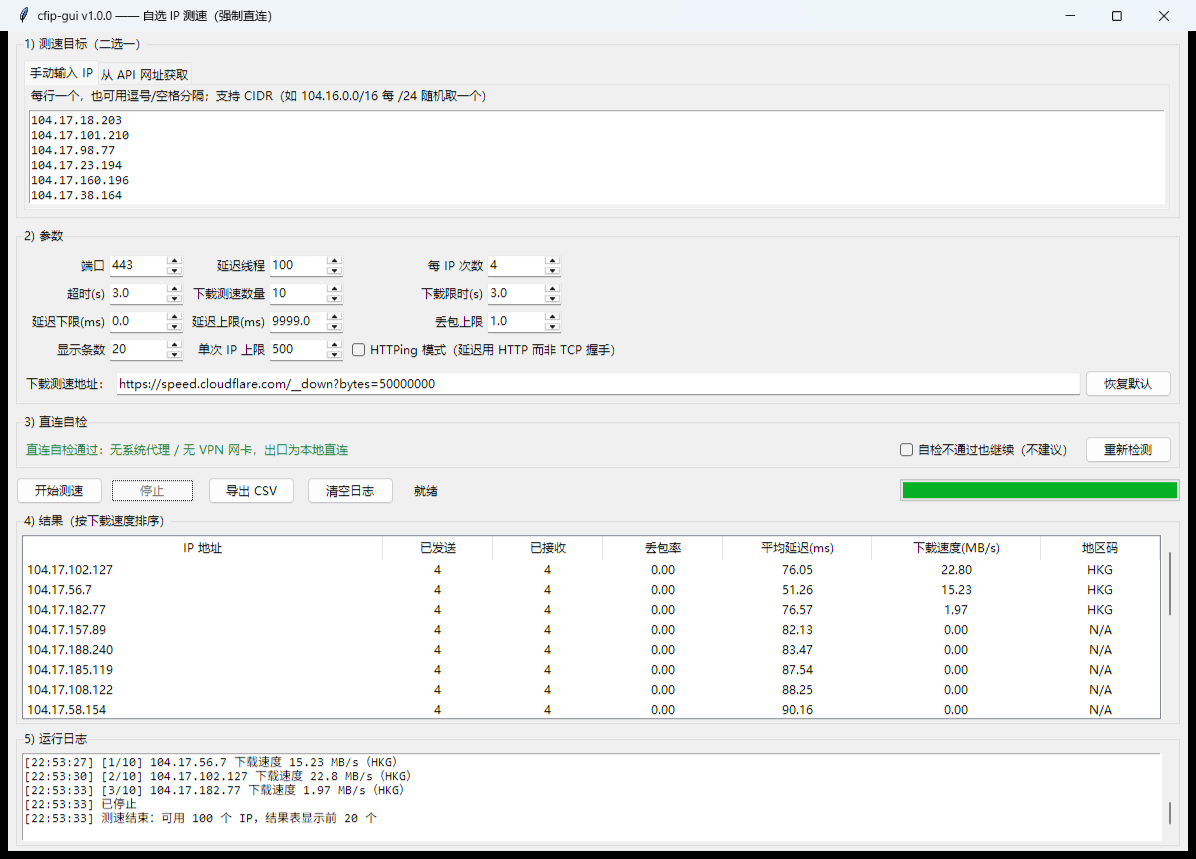
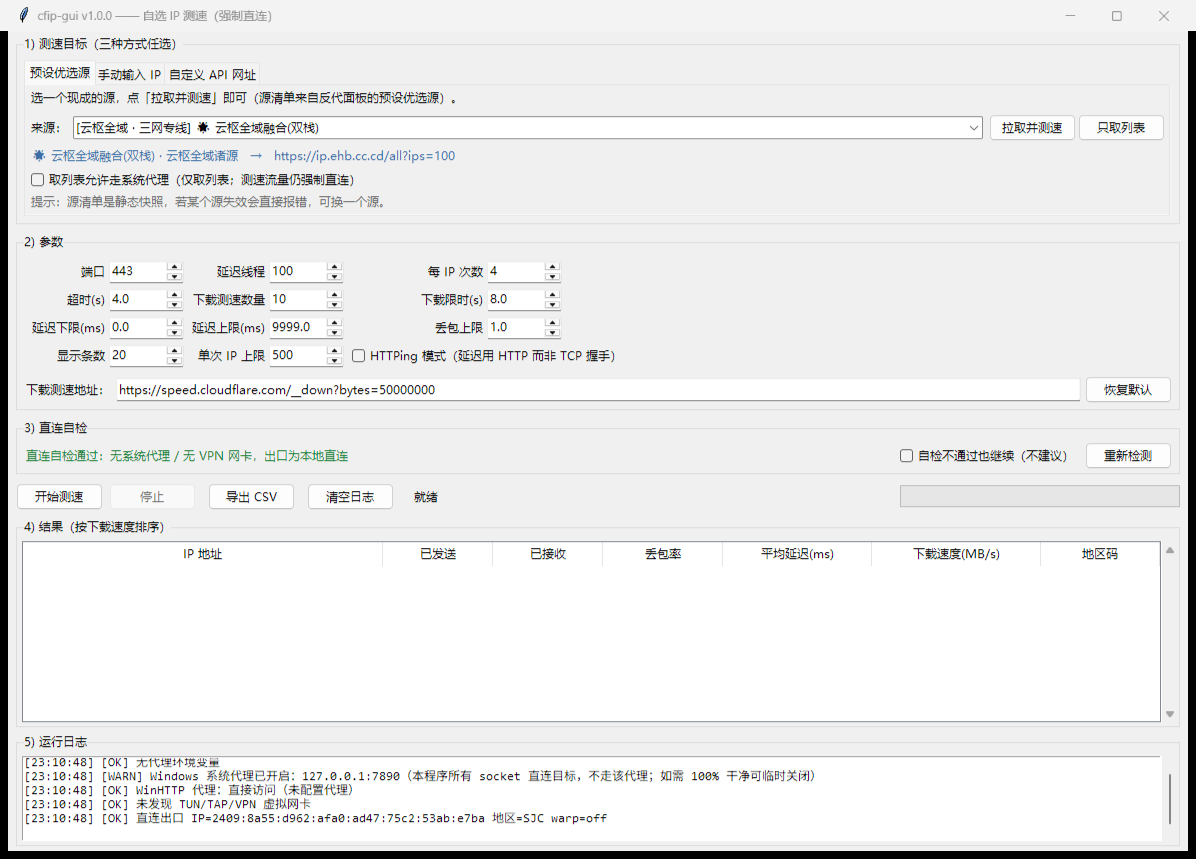
feat: 新增预设优选源下拉，一键拉取并测速
- 新增 presets.py：33 个预设优选源，分 7 组（云枢全域/104/162/172/198&108/
  IPv6 星轨/第三方备用），整理自 EmbyProxyCF-Lite 面板的预设优选源列表
- 「测速目标」改为三页签：预设优选源 / 手动输入 IP / 自定义 API 网址
- 预设源页提供「拉取并测速」「只取列表」两个入口，并显示当前源的完整 URL
- 「取列表允许走系统代理」勾选移到预设源页，两个页签共享同一开关
- README 增加预设优选源章节与致谢，注明 API 来源

diff --git a/cfip_gui.py b/cfip_gui.py
@@ -34,6 +34,15 @@ import urllib.request
 from concurrent.futures import ThreadPoolExecutor
 from dataclasses import dataclass, field
 
+try:
+    from presets import flat_sources, short_name
+except ImportError:  # 打包成单文件或模块缺失时降级为空清单
+    def flat_sources():
+        return []
+
+    def short_name(label):
+        return label
+
 APP_NAME = "cfip-gui"
 APP_VER = "1.0.0"
 
@@ -773,27 +782,52 @@ def run_gui():
             root.pack(fill="both", expand=True)
 
             # 输入区
-            box = ttk.LabelFrame(root, text="1) 测速目标（二选一）")
+            box = ttk.LabelFrame(root, text="1) 测速目标（三种方式任选）")
             box.pack(fill="x", **pad)
             nb = ttk.Notebook(box)
             nb.pack(fill="both", expand=True, padx=6, pady=6)
             self.nb = nb
 
+            # --- 页签 0：预设优选源
+            f0 = ttk.Frame(nb)
+            nb.add(f0, text="预设优选源")
+            ttk.Label(f0, text="选一个现成的源，点「拉取并测速」即可（源清单来自反代面板的预设优选源）。").pack(
+                anchor="w", padx=4, pady=(2, 4))
+            prow = ttk.Frame(f0)
+            prow.pack(fill="x", padx=4, pady=2)
+            ttk.Label(prow, text="来源：").pack(side="left")
+            self.var_preset = tk.StringVar()
+            self.cmb_preset = ttk.Combobox(prow, textvariable=self.var_preset, state="readonly", width=52)
+            self.cmb_preset.pack(side="left", fill="x", expand=True, padx=4)
+            ttk.Button(prow, text="拉取并测速", command=self.preset_fetch_test).pack(side="left", padx=2)
+            ttk.Button(prow, text="只取列表", command=self.preset_fetch_only).pack(side="left")
+            self.lbl_preset_url = ttk.Label(f0, text="", foreground="#3a6ea5", wraplength=1000, justify="left")
+            self.lbl_preset_url.pack(anchor="w", padx=4, pady=2)
+            self.var_api_proxy = tk.BooleanVar(value=False)
+            ttk.Checkbutton(
+                f0, text="取列表允许走系统代理（仅取列表；测速流量仍强制直连）",
+                variable=self.var_api_proxy,
+            ).pack(anchor="w", padx=4)
+            ttk.Label(f0, text="提示：源清单是静态快照，若某个源失效会直接报错，可换一个源。",
+                      foreground="#666").pack(anchor="w", padx=4, pady=(0, 2))
+            self._init_presets()
+
+            # --- 页签 1：手动输入 IP
             f1 = ttk.Frame(nb)
             nb.add(f1, text="手动输入 IP")
             ttk.Label(f1, text="每行一个，也可用逗号/空格分隔；支持 CIDR（如 104.16.0.0/16 每 /24 随机取一个）").pack(anchor="w", padx=4)
             self.txt_ips = tk.Text(f1, height=6, wrap="none", font=("Consolas", 10))
             self.txt_ips.pack(fill="both", expand=True, padx=4, pady=4)
 
+            # --- 页签 2：自定义 API
             f2 = ttk.Frame(nb)
-            nb.add(f2, text="从 API 网址获取")
+            nb.add(f2, text="自定义 API 网址")
             row = ttk.Frame(f2)
             row.pack(fill="x", padx=4, pady=6)
             ttk.Label(row, text="网址：").pack(side="left")
-            self.var_api = tk.StringVar(value="https://ip.ehb.cc.cd/v6-cm?ips=100")
+            self.var_api = tk.StringVar(value="https://ip.v2too.top/api/nodes")
             ttk.Entry(row, textvariable=self.var_api).pack(side="left", fill="x", expand=True, padx=4)
             ttk.Button(row, text="只取列表（不测速）", command=self.fetch_only).pack(side="left")
-            self.var_api_proxy = tk.BooleanVar(value=False)
             ttk.Checkbutton(
                 f2, text="API 取列表允许走系统代理（仅取列表；测速流量仍强制直连）",
                 variable=self.var_api_proxy,
@@ -963,6 +997,71 @@ def run_gui():
             else:
                 self.lbl_direct.config(text="直连自检未通过：存在代理或 VPN，测速结果不可信（详见日志）", foreground="#c62828")
 
+        # ---- 预设优选源
+        def _init_presets(self):
+            self._preset_items = flat_sources()
+            values = [f"[{g}] {short_name(lbl)}" for g, lbl, _ in self._preset_items]
+            self.cmb_preset["values"] = values
+            if values:
+                self.cmb_preset.current(0)
+                self._on_preset_change()
+            self.cmb_preset.bind("<<ComboboxSelected>>", lambda e: self._on_preset_change())
+
+        def _on_preset_change(self):
+            idx = self.cmb_preset.current()
+            if idx < 0 or idx >= len(self._preset_items):
+                return
+            group, label, url = self._preset_items[idx]
+            self.lbl_preset_url.config(text=f"{label}　→　{url}")
+
+        def _selected_preset_url(self):
+            idx = self.cmb_preset.current()
+            if idx < 0 or idx >= len(self._preset_items):
+                return ""
+            return self._preset_items[idx][2]
+
+        def preset_fetch_only(self):
+            url = self._selected_preset_url()
+            if not url:
+                messagebox.showwarning("未选择来源", "请先在下拉框里选一个预设源。")
+                return
+            self.var_api.set(url)  # 同步到自定义 API 框，方便二次修改
+            self.log(f"从预设源取 IP 列表：{url}")
+            self.var_status.set("正在获取 IP 列表…")
+
+            def work():
+                ips, err = fetch_ip_list(url, allow_proxy=self.var_api_proxy.get(),
+                                         log=lambda m: self.q.put(("log", m)))
+                self.q.put(("apiresult", (ips, err)))
+
+            threading.Thread(target=work, daemon=True).start()
+
+        def preset_fetch_test(self):
+            url = self._selected_preset_url()
+            if not url:
+                messagebox.showwarning("未选择来源", "请先在下拉框里选一个预设源。")
+                return
+            if self.worker and self.worker.is_alive():
+                return
+            if self.self_test_ok is False and not self.var_force.get():
+                messagebox.showerror(
+                    "直连自检未通过",
+                    "检测到系统代理或 VPN/TUN 网卡，测速流量可能被中转，结果不可信。\n\n"
+                    "请先关闭代理软件与 VPN 后点「重新检测」。",
+                )
+                return
+            self.var_api.set(url)
+            self.btn_start["state"] = "disabled"
+            self.var_status.set("正在获取 IP 列表…")
+            self.log(f"从预设源取 IP 并测速：{url}")
+
+            def work():
+                ips, err = fetch_ip_list(url, allow_proxy=self.var_api_proxy.get(),
+                                         log=lambda m: self.q.put(("log", m)))
+                self.q.put(("startwith", (ips, err)))
+
+            threading.Thread(target=work, daemon=True).start()
+
         # ---- 取列表
         def fetch_only(self):
             url = self.var_api.get().strip()
@@ -995,7 +1094,7 @@ def run_gui():
             shown = ips[:limit]
             self.txt_ips.delete("1.0", "end")
             self.txt_ips.insert("1.0", "\n".join(shown))
-            self.nb.select(0)  # 自动切到「手动输入 IP」页
+            self.nb.select(1)  # 自动切到「手动输入 IP」页
             self.var_status.set(f"已取到 {len(shown)} 个 IP")
             msg = f"已取到 {len(ips)} 个 IP，已填入「手动输入 IP」页"
             if len(ips) > limit:
@@ -1044,11 +1143,11 @@ def run_gui():
                 )
                 return
 
-            # 停在「API 网址」页时，先后台取列表，取到再开始测速
-            if self.nb.index(self.nb.select()) == 1:
+            # 停在「自定义 API 网址」页时，先后台取列表，取到再开始测速
+            if self.nb.index(self.nb.select()) == 2:
                 url = self.var_api.get().strip()
                 if not url:
-                    messagebox.showwarning("缺少网址", "请在「从 API 网址获取」页填写 API 网址，或切到「手动输入 IP」页。")
+                    messagebox.showwarning("缺少网址", "请在「自定义 API 网址」页填写网址，或改用「预设优选源」/「手动输入 IP」。")
                     return
                 self.btn_start["state"] = "disabled"
                 self.var_status.set("正在获取 IP 列表…")
@@ -1068,7 +1167,7 @@ def run_gui():
             if trunc:
                 self.log(f"IP 数量超过上限，已截断为 {self.var_max.get()} 个")
             if not ips:
-                messagebox.showwarning("没有可测的 IP", "请输入至少一个合法 IP，或切到「从 API 网址获取」页填写网址。")
+                messagebox.showwarning("没有可测的 IP", "请输入至少一个合法 IP，或改用「预设优选源」/「自定义 API 网址」。")
                 return
             self._begin_run(ips)
 

diff --git a/presets.py b/presets.py
@@ -1,0 +1,76 @@
+# -*- coding: utf-8 -*-
+"""预设优选源清单。
+
+来源：https://github.com/MakkaPakka518/EmbyProxyCF-Lite
+（该面板「预设优选源」下拉列表的静态快照，2026-10-20 整理）
+
+面板把每个源以 <optgroup> + <option title="URL"> 的形式写死在页面里，
+所以这里做的是静态快照，不依赖对方接口，也不会因为面板改版而突然失效。
+
+格式：(分组名, [(显示名, 取 IP 的网址), ...])
+"""
+
+PRESET_SOURCES = [
+    ('云枢全域 · 三网专线', [
+        ('🌟 云枢全域融合(双栈) · 云枢全域诸源', 'https://ip.ehb.cc.cd/all?ips=100'),
+        ('🚄 云枢移动起飞 · 云枢移动起飞', 'https://ip.ehb.cc.cd/cm?ips=100'),
+        ('⚡ 云枢电信美西 · 云枢电信美西', 'https://ip.ehb.cc.cd/ct?ips=100'),
+        ('🚀 云枢联通极速 · 云枢联通极速', 'https://ip.ehb.cc.cd/cu?ips=100'),
+    ]),
+    ('104.16.0.0/13 大段家族', [
+        ('🏯 104 大段全域池 · 104大分类全域', 'https://ip.ehb.cc.cd/104?ips=100'),
+        ('🚄 104.17 移动起飞段 · 104.17移动起飞', 'https://ip.ehb.cc.cd/104.17?ips=100'),
+        ('🛡 104.19 移动抗QoS段 · 104.19防QoS', 'https://ip.ehb.cc.cd/104.19?ips=100'),
+        ('📻 104.16 经典老牌段 · 104.16老牌广播', 'https://ip.ehb.cc.cd/104.16?ips=100'),
+    ]),
+    ('162.158.0.0/15 大段家族', [
+        ('🏯 162 大段全域池 · 162大分类全域', 'https://ip.ehb.cc.cd/162?ips=100'),
+        ('💎 162.159 SaaS/DoH段 · 162.159-saas高优', 'https://ip.ehb.cc.cd/162.159-saas?ips=100'),
+        ('⚡ 162.159 电信美西最稳段 · 162.159-ct电信美西', 'https://ip.ehb.cc.cd/162.159-ct?ips=100'),
+    ]),
+    ('172.64.0.0/13 大段家族', [
+        ('🏯 172 大段全域池 · 172大分类全域', 'https://ip.ehb.cc.cd/172?ips=100'),
+        ('🚀 172.64 联通/电信主力段 · 172.64联通主力', 'https://ip.ehb.cc.cd/172.64?ips=100'),
+        ('🌐 172.67 动态反代段 · 172.67动态反代', 'https://ip.ehb.cc.cd/172.67?ips=100'),
+    ]),
+    ('198 & 108 专线家族', [
+        ('🚀 198.41 联通天花板大段 · 198联通天花板', 'https://ip.ehb.cc.cd/198?ips=100'),
+        ('🛡 108.162 三网兜底大段 · 108三网兜底', 'https://ip.ehb.cc.cd/108?ips=100'),
+    ]),
+    ('IPv6 霄汉星轨家族', [
+        ('🌌 云枢 IPv6 全域星轨 · 云枢IPv6全域', 'https://ip.ehb.cc.cd/v6?ips=100'),
+        ('📱 云枢移动 5G 直连 · 云枢移动5G', 'https://ip.ehb.cc.cd/v6-cm?ips=100'),
+        ('⚡ 云枢电信 纯净美西 · 云枢电信美西v6', 'https://ip.ehb.cc.cd/v6-ct?ips=100'),
+        ('🚀 云枢联通 欧洲/东京 · 云枢联通欧洲v6', 'https://ip.ehb.cc.cd/v6-cu?ips=100'),
+        ('🌏 2400:cb00 亚太全域 · 2400亚太全域', 'https://ip.ehb.cc.cd/2400?ips=100'),
+        ('🇭🇰 2400.2048 香港近场段 · 2400.2048香港近场', 'https://ip.ehb.cc.cd/2400.2048?ips=100'),
+        ('⚡ 2400.400 亚太低跳数段 · 2400.400亚太低跳', 'https://ip.ehb.cc.cd/2400.400?ips=100'),
+        ('🛡 2400.2049 亚太抗抖动段 · 2400.2049抗抖动', 'https://ip.ehb.cc.cd/2400.2049?ips=100'),
+        ('🌐 2606:4700 全球主干 · 2606全球主干', 'https://ip.ehb.cc.cd/2606?ips=100'),
+        ('🏢 2606.3030 核心骨干段 · 2606.3030核心骨干', 'https://ip.ehb.cc.cd/2606.3030?ips=100'),
+        ('👑 2606.4700 伴生特权段 · 2606.4700特权伴生', 'https://ip.ehb.cc.cd/2606.4700?ips=100'),
+        ('🚄 2a06:98c0 欧洲特快大段 · 2a06欧洲特快', 'https://ip.ehb.cc.cd/2a06?ips=100'),
+    ]),
+    ('第三方备用源', [
+        ('🌟 @robberer 专属 · @robberer',
+         'https://gh.xxooo.cf/https://raw.githubusercontent.com/hc990275/yx/refs/heads/main/cfyxip.txt'),
+        ('⚡ CM佬电信优选 · CM佬电信优选', 'https://cf.090227.xyz/ct?ips=100'),
+        ('🚄 CM佬移动优选 · CM佬移动优选', 'https://cf.090227.xyz/cmcc?ips=100'),
+        ('🚀 CM佬联通优选 · CM佬联通优选', 'https://cf.090227.xyz/cu?ips=100'),
+        ('💡 v2too 源 · v2too默认源', 'https://ip.v2too.top/api/nodes'),
+    ]),
+]
+
+
+def flat_sources():
+    """展开成 [(分组, 显示名, 网址), ...]，便于下拉框逐项列出。"""
+    out = []
+    for group, items in PRESET_SOURCES:
+        for label, url in items:
+            out.append((group, label, url))
+    return out
+
+
+def short_name(label):
+    """从「🌟 显示名 · 备注」里取出显示名部分。"""
+    return label.split('·')[0].strip()
